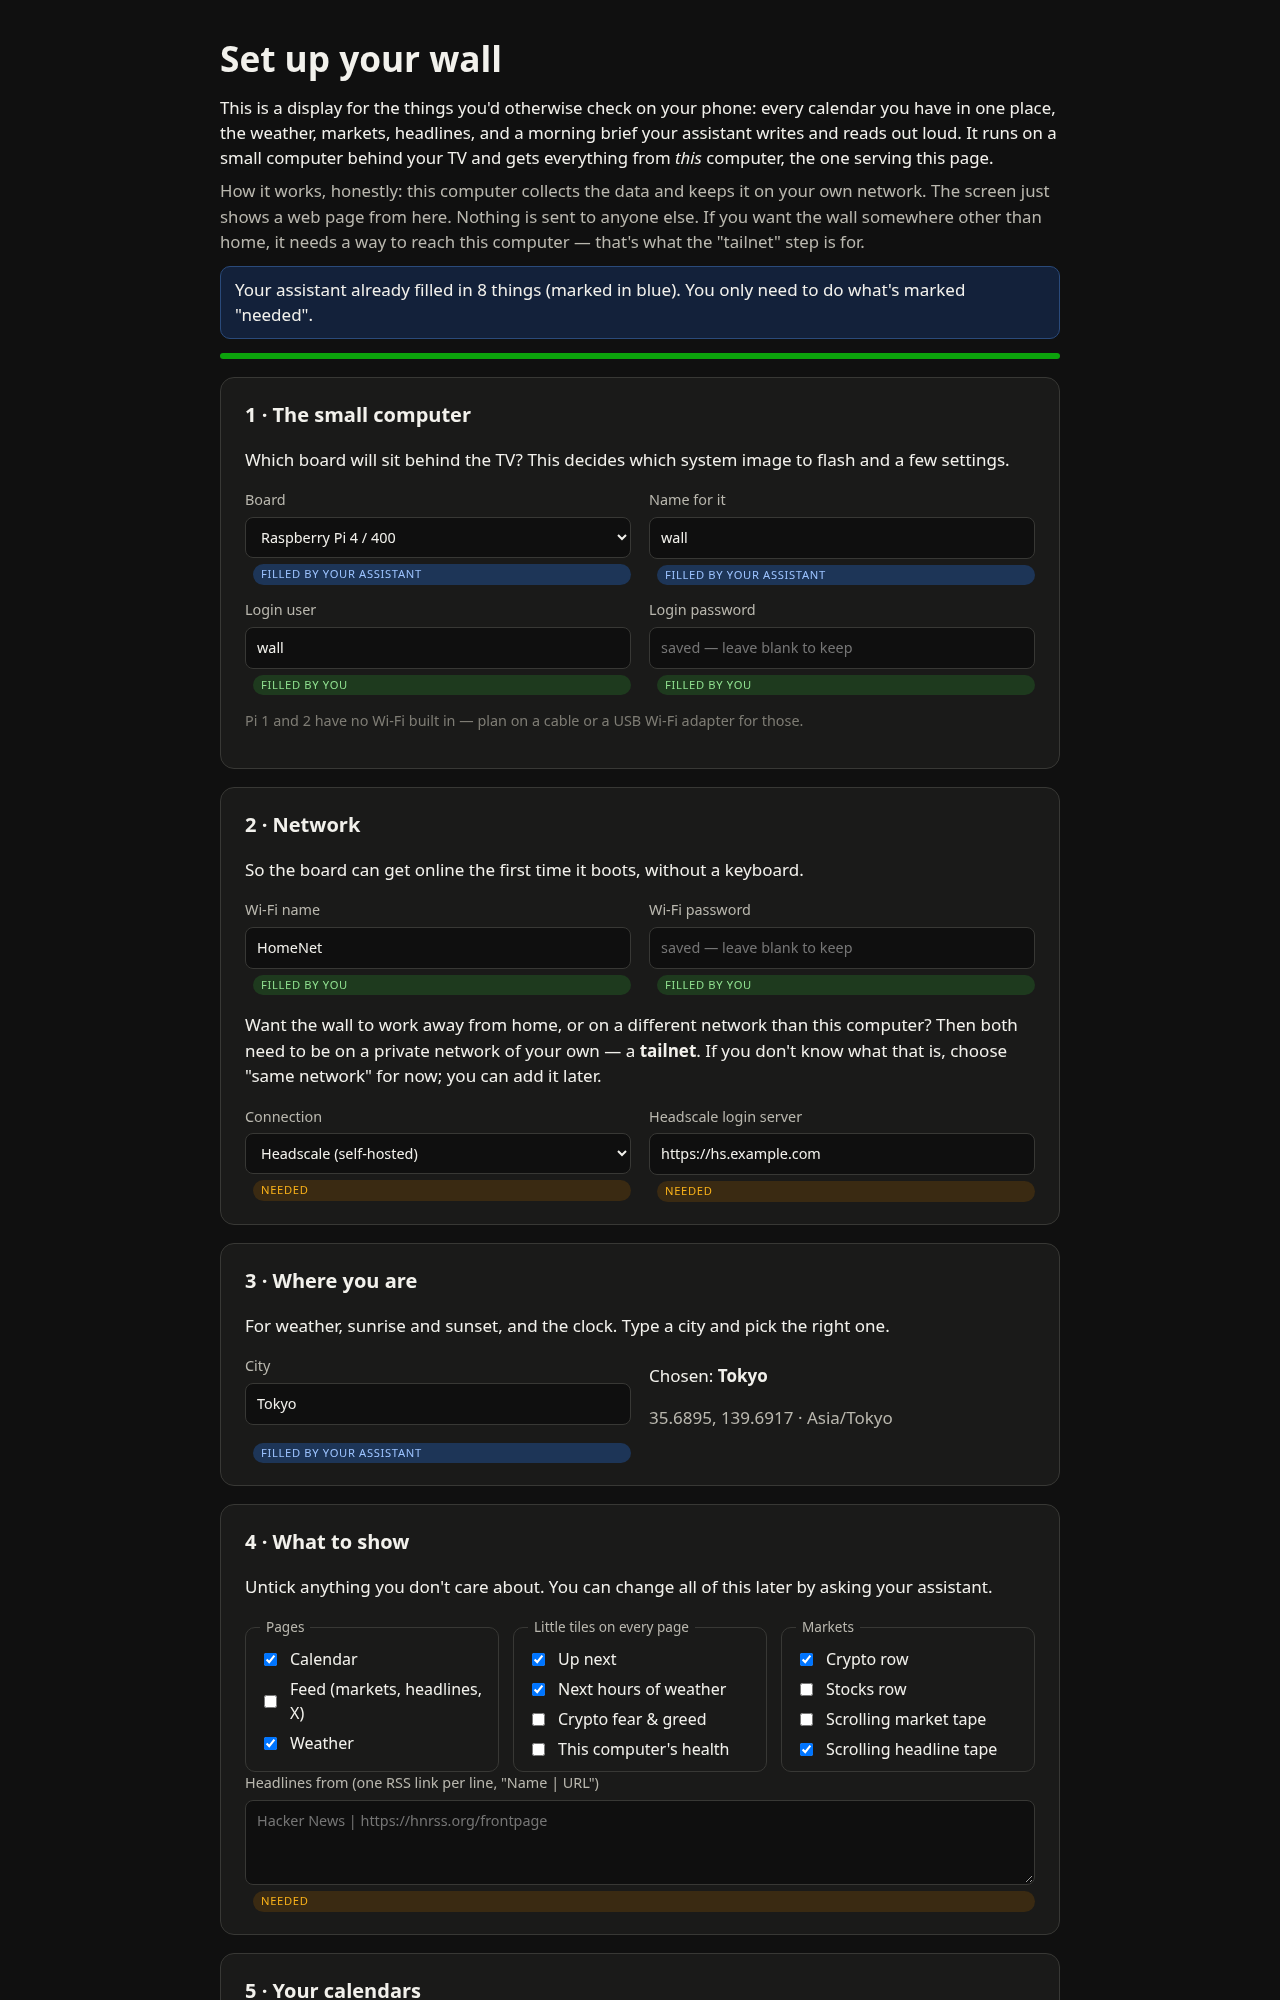
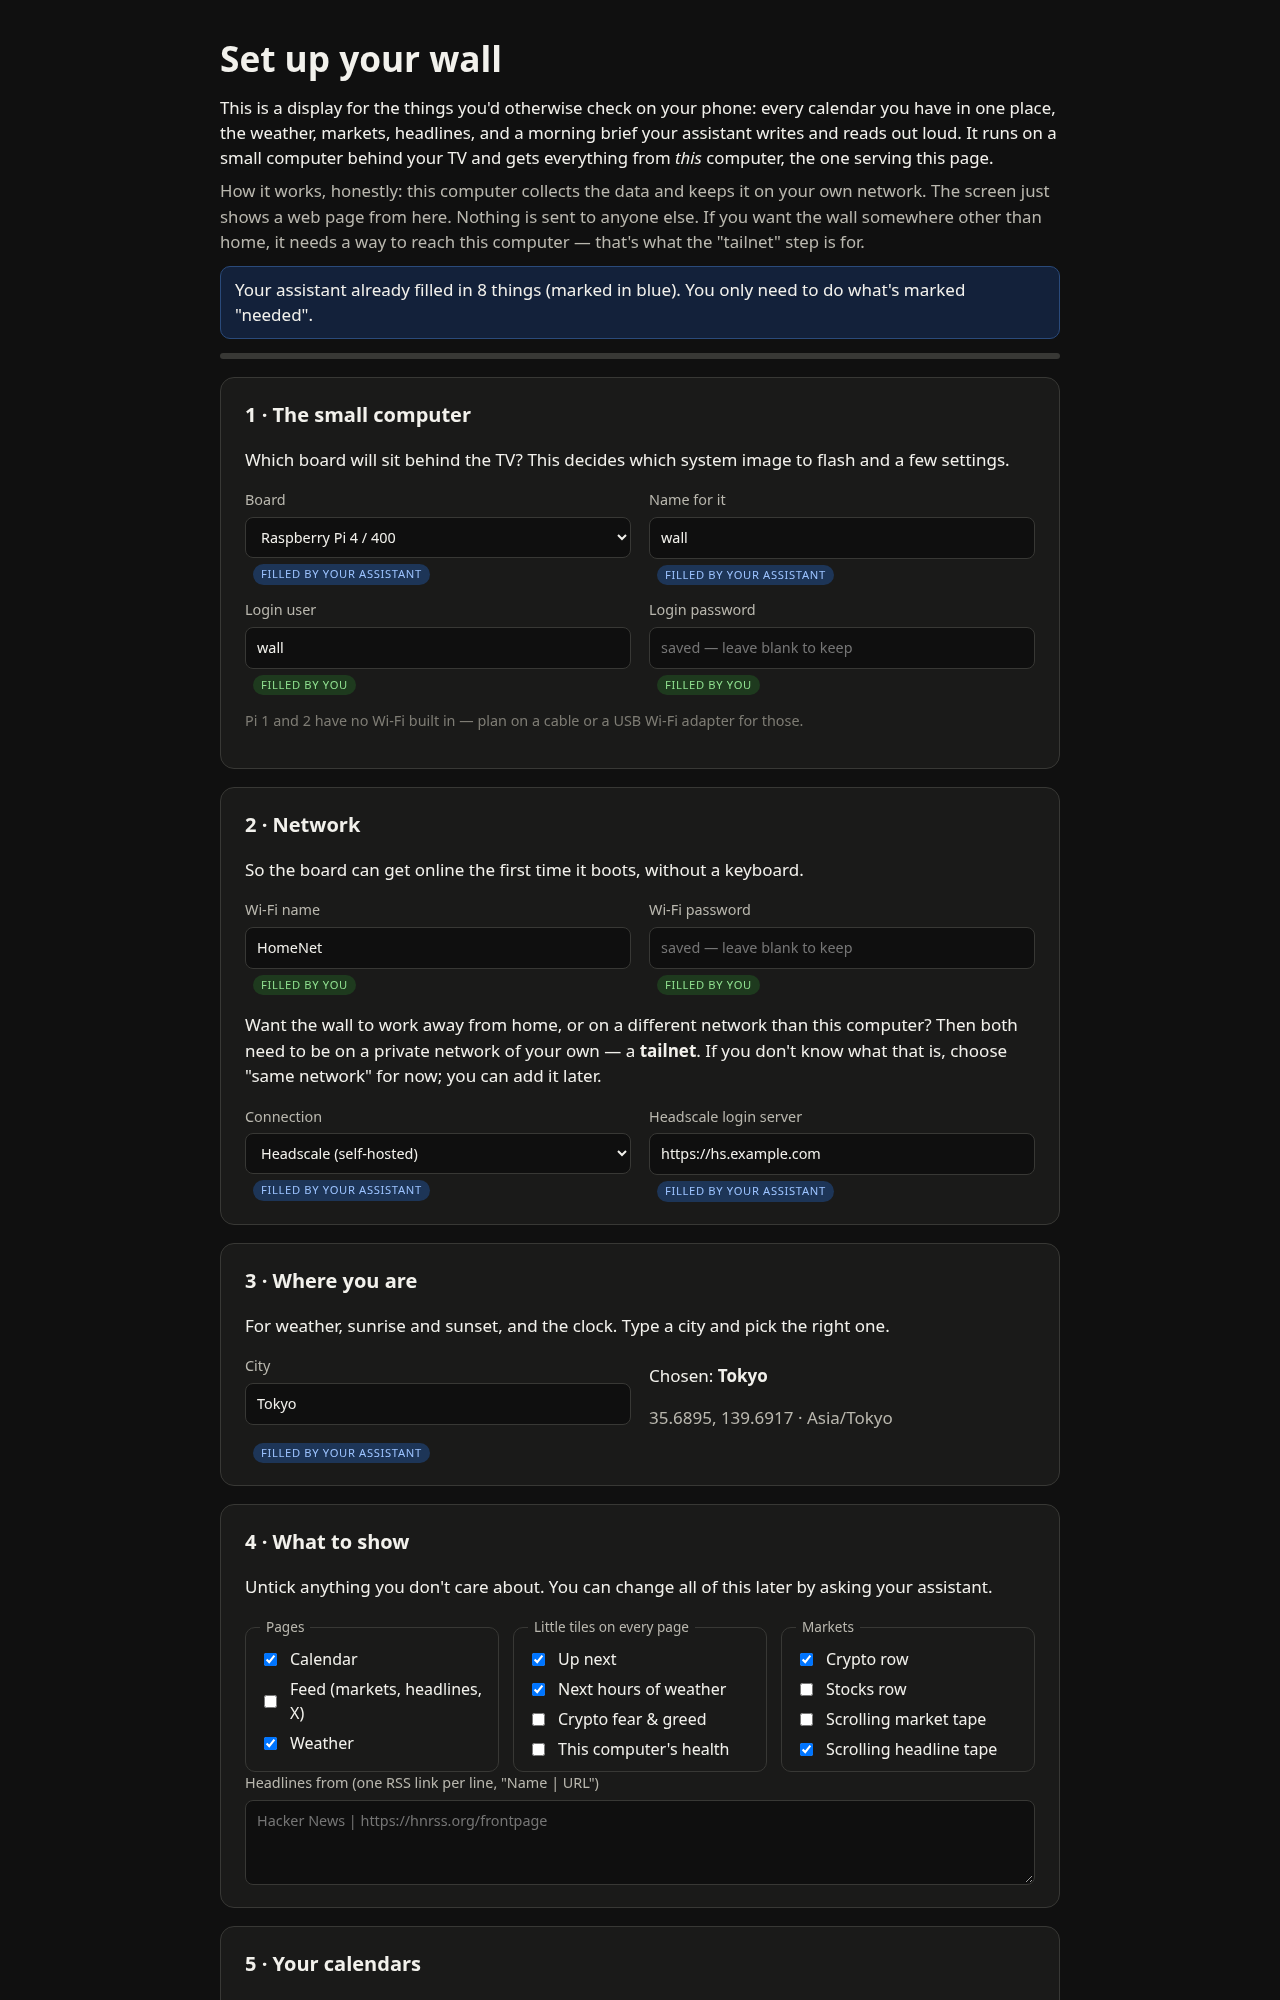
setup page: badge layout and source mapping

diff --git a/server/web/setup.css b/server/web/setup.css
@@ -10,7 +10,7 @@ label { display: flex; flex-direction: column; gap: 6px; font-size: .9rem; color
 input, select, textarea { font: inherit; color: var(--ink); background: #0f0f0f; border: 1px solid var(--line); border-radius: 8px; padding: 9px 11px; }
 input:focus, select:focus, textarea:focus { outline: 2px solid var(--accent); border-color: transparent; }
 fieldset { border: 1px solid var(--line); border-radius: 10px; padding: 10px 14px; margin: 0; display: flex; flex-direction: column; gap: 6px; } legend { color: var(--ink-2); font-size: .85rem; padding: 0 6px; }
-.tag { display: inline-block; font-size: .7rem; text-transform: uppercase; letter-spacing: .06em; padding: 2px 8px; border-radius: 999px; margin-left: 8px; vertical-align: middle; }
+.tag { display: inline-block; align-self: flex-start; font-size: .7rem; text-transform: uppercase; letter-spacing: .06em; padding: 2px 8px; border-radius: 999px; margin-left: 8px; vertical-align: middle; }
 .tag.agent { background: #1d3557; color: #9cc3ff; } .tag.you { background: #1e3a1e; color: #8fe08f; } .tag.need { background: #3a2a12; color: #fab219; }
 .choices { display: flex; flex-direction: column; gap: 4px; margin-top: 6px; } .choices button { text-align: left; }
 .choices button, .ghost { background: transparent; color: var(--ink); border: 1px solid var(--line); border-radius: 8px; padding: 8px 12px; font: inherit; cursor: pointer; } .choices button:hover, .ghost:hover { border-color: var(--accent); }

diff --git a/server/web/setup.js b/server/web/setup.js
@@ -6,9 +6,12 @@
   let state = { answers: {}, sources: {}, missing: [] };
   const api = (path, body) => fetch(`/api/setup${path}`, body ? { method: "POST", headers: { "Content-Type": "application/json", "X-Source": "browser" }, body: JSON.stringify(body) } : {}).then((r) => r.json());
 
+  const SOURCE_KEY = { tailnet_kind: "tailnet", tailnet_login_server: "tailnet", rss_text: "rss_feeds", city: "location" };
+  const REQUIRED = new Set(["pi_model", "pi_hostname", "pi_password", "wifi_ssid", "city"]);
   function tag(name) {
-    const src = state.sources[name]; const el = $(`[name="${name}"]`)?.closest("label");
+    const src = state.sources[SOURCE_KEY[name] || name]; const el = $(`[name="${name}"]`)?.closest("label");
     if (!el) return; el.querySelector(".tag")?.remove();
+    if (!src && !REQUIRED.has(name)) return;   // optional and untouched: no badge
     const t = document.createElement("span"); t.className = "tag " + (src === "agent" ? "agent" : src ? "you" : "need");
     t.textContent = src === "agent" ? "filled by your assistant" : src ? "filled by you" : "needed"; el.firstChild.after?.(t) || el.append(t);
   }
